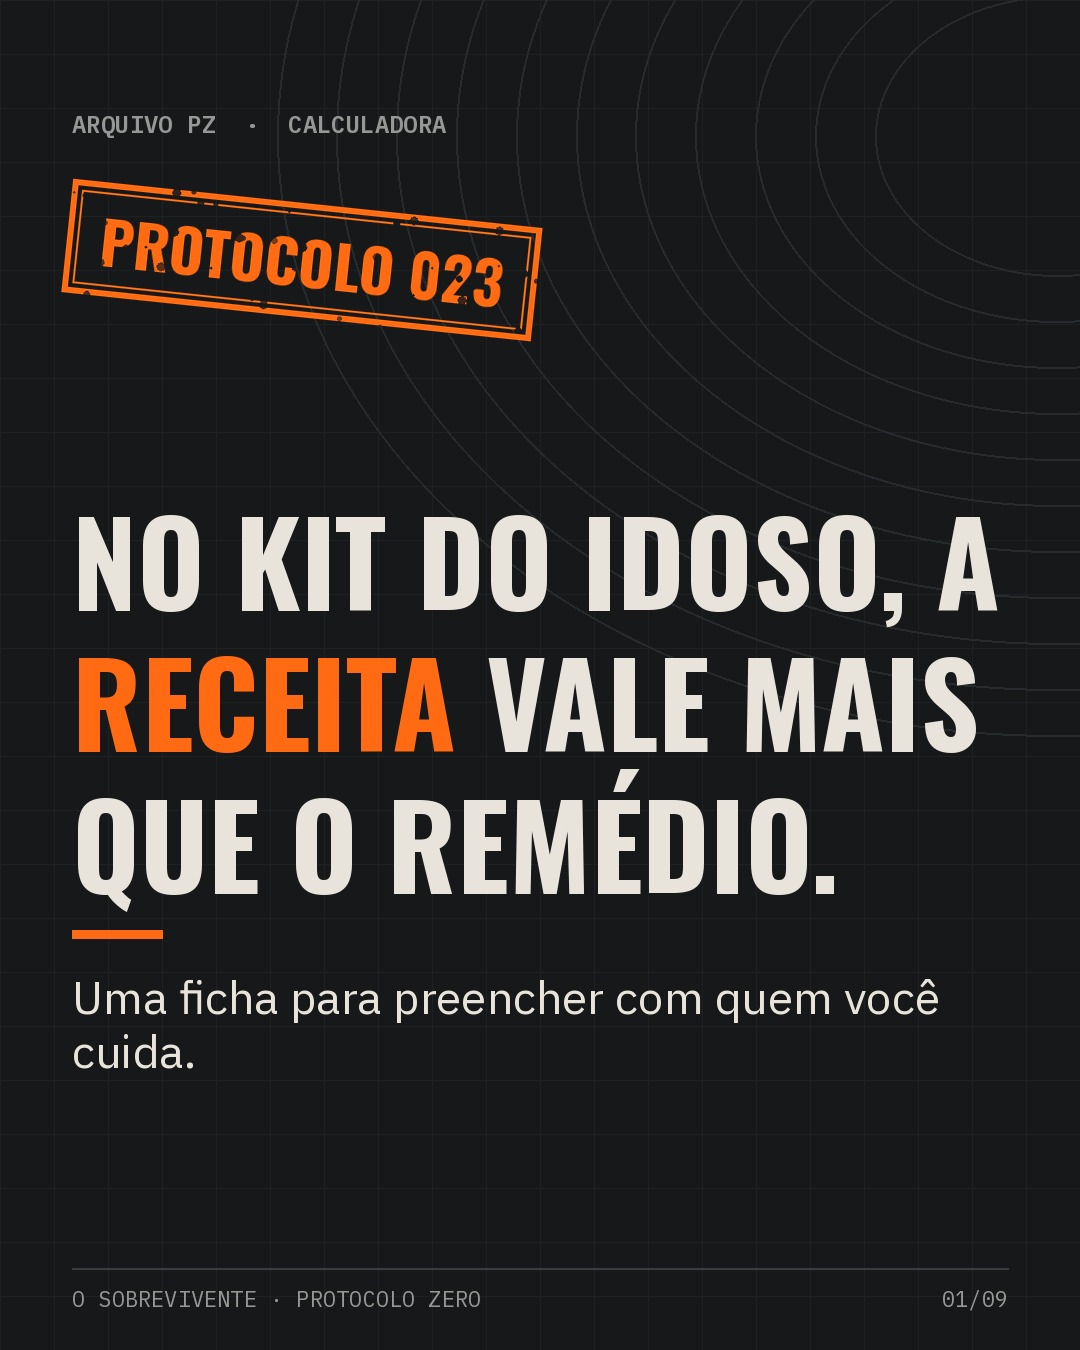
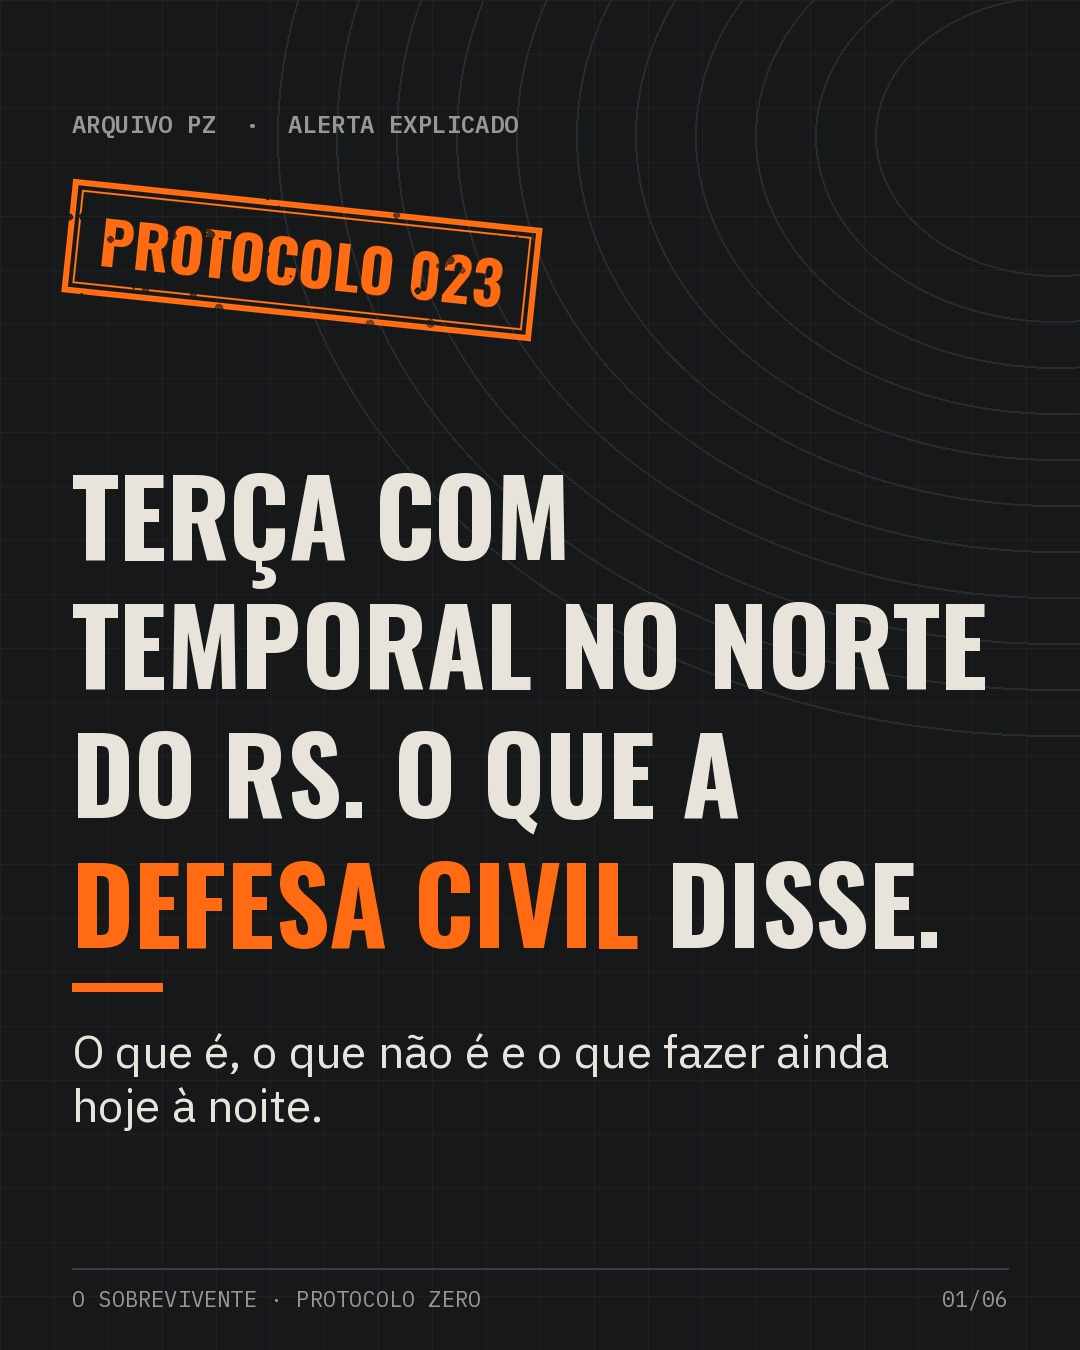
Vigia 23/11: ALERTA Protocolo 023 (aviso da Defesa Civil do RS para terça 24/11, 19:40); kit do idoso vira Protocolo 024 em 24/11
Claude-Session: https://claude.ai/code/session_01V5a7DwichyTycMa6xUXNJb

diff --git a/fila/2026-11-23/RESUMO.md b/fila/2026-11-23/RESUMO.md
@@ -1,24 +1,26 @@
-## Lote 23/11/2026 (segunda): 1 post
+## Vigia 23/11/2026 (segunda, meio-dia): ALERTA, 1 post
 
 | Horário | Formato | Pauta | Gancho | Capa |
 |---|---|---|---|---|
-| 19:40 | Calculadora (carrossel, 9 lâminas) | Z09 · PROTOCOLO 023 | inventario | No kit do idoso, a receita vale mais que o remédio. |
+| 19:40 | Alerta explicado (carrossel, 6 lâminas) | A04 · PROTOCOLO 023 | comunicado | Terça com temporal no norte do RS. O que a Defesa Civil disse. |
 
-**Alerta (passo 1):** nenhum alerta novo furou a fila. O que saiu nas últimas 24h foi o aviso **amarelo** do Inmet para domingo (22/11, válido até 23h59) e o risco moderado a alto de temporal da Defesa Civil de SC para domingo, já coberto pelo Protocolo 021 (feriado até domingo). Para segunda, a imprensa (Agora Litoral, 22/11) fala em trégua parcial e novo ciclo de tempestades entre terça (24) e quarta (25) em SC e RS, sem aviso oficial aberto ainda. A vigia do meio-dia deve olhar isso.
+**Modo pico: ALERTA.** A Defesa Civil do RS publicou em 22/11 (12h10 e 12h13) os avisos meteorológico e hidrológico ("Aviso 25") para terça, 24/11: tempestades isoladas com granizo que pode ser grande e rajadas acima de 80 km/h em Missões, Centro, Noroeste, Norte, Vales, Serra e Nordeste; 40 a 80 mm no dia, pontualmente mais de 150 mm até o fim do aviso; solo saturado, risco de cheia em arroios e rios menores e Taquari e Uruguai podendo chegar ao limiar de alerta (níveis ATENÇÃO e ALERTA). Era o novo ciclo que o lote de 22/11 pediu para a vigia olhar. Não estava coberto: o 021 tratou do temporal do feriado e o 022 do alerta do Taquari de 20 e 21/11, já encerrado.
 
-**Pauta:** Z09 (kit para idoso), que o lote de 20/11 empurrou para hoje pela regra do alerta que fura a fila. Formato calculadora não repete o anterior (protocolo, 022); gancho `inventario` não repete os 2 últimos (ordem, erro_comum). CTA de salvamento (isca inativa). Com Z09 hoje e Z12 já usada no sábado, a semana 3 fecha certinho: Z11, Z13, Z26 e Z27 de terça a sexta.
+**Validade:** o aviso vale para terça, 24/11. O post sai segunda às 19:40, antes do evento, então fala em previsão para terça, sem "alerta ativo". As páginas não trazem hora de início e fim do aviso (só a imagem "Aviso 25", que não foi lida), por isso o post não cita horário.
 
-### Fontes (abertas nesta execução, 22/11/2026)
-- Defesa Civil do Paraná, Kit de Emergência pessoal (remédios e cópia das prescrições dos controlados, cópia de documentos, óculos de grau extra, baterias): https://www.defesacivil.pr.gov.br/Pagina/Kit-de-Emergencia-pessoal . pagina_oficial
-- Defesa Civil de São Paulo, Plano familiar de emergência (água e alimentos para 3 dias, lista de contatos, equipamento médico que usa eletricidade, validade do kit a cada 6 meses): https://www.spsemprealerta.sp.gov.br/orientacoes/plano-familiar-de-emergencia/ . pagina_oficial
-- Ready.gov, programa do governo dos EUA, página Older Adults (rede de apoio com pelo menos 1 pessoa que sabe onde está o kit; levar aparelhos de apoio na saída): https://www.ready.gov/older-adults . pagina_oficial (estrangeira, nomeada como tal)
+**Fila:** o Z09 (kit do idoso, calculadora) que estava aqui às 19:40 foi para terça, 24/11, 19:40, renumerado para Protocolo 024 (ver `fila/2026-11-24/RESUMO.md`). Formatos seguem sem repetir: protocolo (022), alerta (023), calculadora (024). Ganchos: erro_comum, comunicado, inventario.
+
+### Fontes (abertas nesta execução, 23/11/2026)
+- Defesa Civil do RS, atualização meteorológica de 22/11, 12h13: https://defesacivil.rs.gov.br/o-centro-de-monitoramento-da-defesa-civil-do-estado-atualiza-as-condicoes-meteorologicas-para-os-proximos-dias-no--6b0306ab2fb2c . pagina_oficial
+- Defesa Civil do RS, atualização hidrológica de 22/11, 12h10: https://defesacivil.rs.gov.br/o-centro-de-monitoramento-da-defesa-civil-do-estado-atualiza-as-condicoes-hidrologicas-para-os-proximos-dias-no-rs-6b0305f4cd47d . pagina_oficial
+- Defesa Civil do RS, alerta de tempestade de Palmeira das Missões (22/11, já encerrado), usado só pelas orientações (abrigo, portas e janelas fechadas, aparelhos fora da tomada, animais abrigados, 190/193): https://defesacivil.rs.gov.br/defesa-civil-alerta-severo-para-tempestade-com-granizo-grande-e-vendaval-que-atua-nas-proximidades-de-palmeira-das-missoes . pagina_oficial
 
 ### Confira (modo direto: o post sai mesmo assim)
-- [ ] Nenhuma pendência de fonte. Todo número do post (3, 6, 1, e o 192 do SAMU) vem de página oficial aberta hoje.
-- [ ] Opcional: se a Defesa Civil de SC ou do RS emitir alerta para terça (24) antes das 19:40, considere um story apontando para o Protocolo 021.
+- [ ] Antes das 19:40, olhar se a Defesa Civil do RS publicou atualização em 23/11 (até o meio-dia não havia nenhum item com data de 23/11 no site). Se o aviso mudou de região ou de intensidade, ajuste ou comente fixado.
+- [ ] O site da Defesa Civil de SC e o portal de avisos do Inmet não abriram daqui. Se SC ou o Inmet tiverem aviso laranja ou vermelho para terça, vale um story apontando para este post.
+- [ ] Pela imprensa (O Bem Dito, 23/11, 09h34, sem link da fonte primária): Inmet com alerta laranja de tempestade para Umuarama e Oeste e Noroeste do PR, válido até 23h59 de hoje. Ficou fora do post (não conferido na fonte e acaba 4h depois do horário de publicação).
 
 ### Notas
-- Saúde: o post não cita nome de remédio nem dose. A tabela é para copiar o que está na receita, com aviso "não mude nada sem falar com o médico"; a legenda diz que o conteúdo é educativo e indica o 192.
-- Nenhuma fonte oficial aberta hoje traz número de dias de estoque de remédio (as páginas do CDC e o PDF do Ready.gov para idosos não abriram daqui). Por isso o post usa os 3 dias do kit de SP e não fala em "1 semana".
-- Nenhum número da Fundação usado.
-- Renderização conferida lâmina por lâmina: sem texto cortado. Sem reescrita.
+- Números do post: 80 km/h, 40 a 80 mm, 150 mm (aviso meteorológico) e 193/199. Nenhum número da Fundação usado.
+- Item "combine hoje para onde ir se precisar sair" é preparo geral (mesma linha do Protocolo 022), sem número.
+- Renderização conferida lâmina por lâmina, nos dois posts: sem texto cortado. Sem reescrita.

diff --git a/fila/2026-11-24/RESUMO.md b/fila/2026-11-24/RESUMO.md
@@ -1,0 +1,29 @@
+## Lote 24/11/2026 (terça): 1 post (empurrado de 23/11)
+
+**Atenção:** este post foi montado no lote de 22/11 para segunda, 23/11, como Protocolo 023. A vigia do meio-dia de 23/11 abriu um Alerta explicado às 19:40 de segunda (ver `fila/2026-11-23/RESUMO.md`), e este post foi empurrado para terça, 24/11, 19:40, renumerado para **Protocolo 024** e renderizado de novo. Conteúdo, fontes e legenda sem mudança. O lote de hoje à noite não precisa criar outro post para 24/11: só conferir se algum alerta novo fura esta vaga.
+
+**Calendário da semana 3:** com Z09 na terça, sobram quarta a sexta (3 vagas) para Z11, Z13, Z26 e Z27; uma delas fica fora da semana 3 e o lote decide qual.
+
+
+| Horário | Formato | Pauta | Gancho | Capa |
+|---|---|---|---|---|
+| 19:40 | Calculadora (carrossel, 9 lâminas) | Z09 · PROTOCOLO 024 | inventario | No kit do idoso, a receita vale mais que o remédio. |
+
+**Alerta (passo 1):** nenhum alerta novo furou a fila. O que saiu nas últimas 24h foi o aviso **amarelo** do Inmet para domingo (22/11, válido até 23h59) e o risco moderado a alto de temporal da Defesa Civil de SC para domingo, já coberto pelo Protocolo 021 (feriado até domingo). Para segunda, a imprensa (Agora Litoral, 22/11) fala em trégua parcial e novo ciclo de tempestades entre terça (24) e quarta (25) em SC e RS, sem aviso oficial aberto ainda. A vigia do meio-dia deve olhar isso.
+
+**Pauta:** Z09 (kit para idoso), que o lote de 20/11 empurrou para hoje pela regra do alerta que fura a fila. Formato calculadora não repete o anterior (protocolo, 022); gancho `inventario` não repete os 2 últimos (ordem, erro_comum). CTA de salvamento (isca inativa). Com Z09 hoje e Z12 já usada no sábado, a semana 3 fecha certinho: Z11, Z13, Z26 e Z27 de terça a sexta.
+
+### Fontes (abertas nesta execução, 22/11/2026)
+- Defesa Civil do Paraná, Kit de Emergência pessoal (remédios e cópia das prescrições dos controlados, cópia de documentos, óculos de grau extra, baterias): https://www.defesacivil.pr.gov.br/Pagina/Kit-de-Emergencia-pessoal . pagina_oficial
+- Defesa Civil de São Paulo, Plano familiar de emergência (água e alimentos para 3 dias, lista de contatos, equipamento médico que usa eletricidade, validade do kit a cada 6 meses): https://www.spsemprealerta.sp.gov.br/orientacoes/plano-familiar-de-emergencia/ . pagina_oficial
+- Ready.gov, programa do governo dos EUA, página Older Adults (rede de apoio com pelo menos 1 pessoa que sabe onde está o kit; levar aparelhos de apoio na saída): https://www.ready.gov/older-adults . pagina_oficial (estrangeira, nomeada como tal)
+
+### Confira (modo direto: o post sai mesmo assim)
+- [ ] Nenhuma pendência de fonte. Todo número do post (3, 6, 1, e o 192 do SAMU) vem de página oficial aberta hoje.
+- [ ] Opcional: se a Defesa Civil de SC ou do RS emitir alerta para terça (24) antes das 19:40, considere um story apontando para o Protocolo 021.
+
+### Notas
+- Saúde: o post não cita nome de remédio nem dose. A tabela é para copiar o que está na receita, com aviso "não mude nada sem falar com o médico"; a legenda diz que o conteúdo é educativo e indica o 192.
+- Nenhuma fonte oficial aberta hoje traz número de dias de estoque de remédio (as páginas do CDC e o PDF do Ready.gov para idosos não abriram daqui). Por isso o post usa os 3 dias do kit de SP e não fala em "1 semana".
+- Nenhum número da Fundação usado.
+- Renderização conferida lâmina por lâmina: sem texto cortado. Sem reescrita.

diff --git a/fila/2026-11-23/01/roteiro.md b/fila/2026-11-23/01/roteiro.md
@@ -1,19 +1,20 @@
-PROTOCOLO 023 · Kit do idoso: a receita vale mais que o remédio
-Formato: Reel 30 a 45s · Funil: salvamento
+PROTOCOLO 023 · Terça com temporal no norte do RS
+Formato: Reel 25 a 30s · Funil: alcance
 
-TEXTO NA TELA (0 a 3s): NO KIT DO IDOSO, A RECEITA VALE MAIS QUE O REMÉDIO.
+TEXTO NA TELA (0 a 3s): TERÇA COM TEMPORAL NO NORTE DO RS. O QUE A DEFESA CIVIL DISSE.
 
-DIREÇÃO VISUAL: carimbo PROTOCOLO 023 sobre uma pasta de dossiê. Mão separando cópias de receita num saco plástico fechado. Ficha em off-white com a tabela "Remédio / Vezes por dia / Para 3 dias" sendo preenchida a caneta (nomes de remédio borrados, nenhum nome legível). Óculos sobre a ficha, pilhas e um carregador ao lado. Fecha na mochila com a pasta dentro. Nada de rosto de idoso real, nada de foto de desastre.
+DIREÇÃO VISUAL: carimbo PROTOCOLO 023 batendo na ficha; mapa do RS em traço de dossiê com Missões, Centro, Noroeste, Norte, Vales, Serra e Nordeste hachurados em laranja; linha fina marcando o Taquari e o Uruguai; calendário de papel com segunda em grafite e terça em laranja; checklist riscado à mão (lanterna, celular, kit perto da porta). Nada de imagem real de tempestade, de enchente, de vítima ou de estrago.
 
 NARRAÇÃO:
-No kit de quem é idoso, o item que mais falta não é o remédio. É a receita.
-A Defesa Civil do Paraná pede os remédios e a cópia das prescrições dos controlados. A caixa esvazia. O papel é o que ajuda a repor longe de casa.
-Junto: lista de contatos do médico e da família, cópia dos documentos e um óculos extra.
-Agora a conta. Para cada remédio de uso contínuo, copie da receita quantas vezes por dia ele é usado. Multiplique por 3, os dias que a Defesa Civil de São Paulo pede no kit. Não mude nada sem o médico.
-Usa equipamento que precisa de tomada? Combine com o médico o que fazer se a luz cair.
-E pelo menos 1 pessoa da família precisa saber onde está tudo.
-Revise a cada 6 meses, e sempre que a receita mudar.
+Terça com risco de temporal no norte do Rio Grande do Sul.
+A Defesa Civil fala em tempestades isoladas, granizo que pode ser grande e rajadas acima de 80 quilômetros por hora.
+Chuva de 40 a 80 milímetros no dia.
+E o solo já está encharcado. Por isso, arroios podem encher rápido, e o Taquari e o Uruguai podem chegar ao nível de alerta.
+Não é chuva no estado inteiro. Mas esta noite é a janela.
+Mora perto de rio? Combine hoje para onde ir.
+Kit perto da porta. No temporal, fique abrigado e tire os aparelhos da tomada.
+Rua alagada: não atravesse.
 
 FECHO: Protocolo arquivado. Sua família está um passo à frente.
-CTA: Salve e preencha junto com quem você cuida.
+CTA: Mande para quem mora no norte do RS ou nos Vales.
 LEGENDA: igual à do carrossel.

diff --git a/fila/2026-11-24/01/roteiro.md b/fila/2026-11-24/01/roteiro.md
@@ -1,0 +1,19 @@
+PROTOCOLO 024 · Kit do idoso: a receita vale mais que o remédio
+Formato: Reel 30 a 45s · Funil: salvamento
+
+TEXTO NA TELA (0 a 3s): NO KIT DO IDOSO, A RECEITA VALE MAIS QUE O REMÉDIO.
+
+DIREÇÃO VISUAL: carimbo PROTOCOLO 024 sobre uma pasta de dossiê. Mão separando cópias de receita num saco plástico fechado. Ficha em off-white com a tabela "Remédio / Vezes por dia / Para 3 dias" sendo preenchida a caneta (nomes de remédio borrados, nenhum nome legível). Óculos sobre a ficha, pilhas e um carregador ao lado. Fecha na mochila com a pasta dentro. Nada de rosto de idoso real, nada de foto de desastre.
+
+NARRAÇÃO:
+No kit de quem é idoso, o item que mais falta não é o remédio. É a receita.
+A Defesa Civil do Paraná pede os remédios e a cópia das prescrições dos controlados. A caixa esvazia. O papel é o que ajuda a repor longe de casa.
+Junto: lista de contatos do médico e da família, cópia dos documentos e um óculos extra.
+Agora a conta. Para cada remédio de uso contínuo, copie da receita quantas vezes por dia ele é usado. Multiplique por 3, os dias que a Defesa Civil de São Paulo pede no kit. Não mude nada sem o médico.
+Usa equipamento que precisa de tomada? Combine com o médico o que fazer se a luz cair.
+E pelo menos 1 pessoa da família precisa saber onde está tudo.
+Revise a cada 6 meses, e sempre que a receita mudar.
+
+FECHO: Protocolo arquivado. Sua família está um passo à frente.
+CTA: Salve e preencha junto com quem você cuida.
+LEGENDA: igual à do carrossel.
